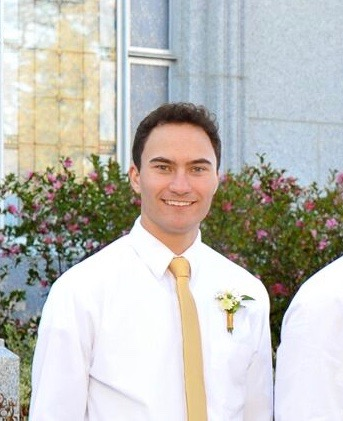
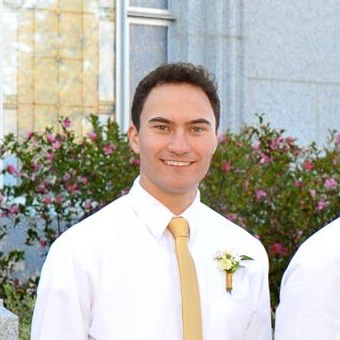
tons of visual updates

diff --git a/subpages/team.html b/subpages/team.html
@@ -1,31 +1,38 @@
 
-<div id="team-content" class='subpage'>    
-  <h1>The Black Dragons</h1>
-  <h2>The Team:</h2>
-  <h3>Joshua Callahan</h3>
-  <a href="../resources/josh.jpg">
-    <img alt="A picture of Josh" src="../resources/josh.jpg" />
-  </a>
-  <p>Computer Science</p>
-  <p>email@address.com</p>
-  <h3>James Collier</h3>
-  <a href="../resources/james.jpg">
-    <img alt="A picture of James" src="../resources/james.jpg" />
-  </a>
-  <p>Computer Science</p>
-  <p>email@address.com</p>
-
-  <h3>Christopher McAfee</h3>
-  <a href="../resources/Astronaut.png">
-    <img alt="A picture of Chris" src="../resources/Astronaut.png" />
-  </a>
-  <p>Computer Science</p>
-  <p>u0289961 at utah.edu</p>
-
-  <h3>Cashe Rumsey</h3>
-  <a href="../resources/Astronaut.png">
-    <img alt="A picture of Cashe" src="../resources/Astronaut.png" />
-  </a>
-  <p>Computer Science</p>
-  <p>email@address.com</p>
+<div id="team-content" class='subpage'>
+  <h1>The Black Dragons:</h1>
+  <div class="members">
+    <div class="member">
+      <h3>Joshua Callahan</h3>
+      <a href="../resources/josh.jpg">
+        <img alt="A picture of Josh" src="../resources/josh.jpg" />
+      </a>
+      <div class="major">Computer Science</div>
+      <div class="email">email@gmail.com</div>
+    </div>
+    <div class="member">
+      <h3>James Collier</h3>
+      <a href="../resources/james.jpg">
+        <img alt="A picture of James" src="../resources/james.jpg" />
+      </a>
+      <div class="major">Computer Science</div>
+      <div class="email">email@gmail.com</div>
+    </div>
+    <div class="member">
+      <h3>Christopher McAfee</h3>
+      <a href="../resources/Astronaut.png">
+        <img alt="A picture of Chris" src="../resources/Astronaut.png" />
+      </a>
+      <div class="major">Computer Science</div>
+      <div class="email">u0289961 at utah.edu</div>
+    </div>
+    <div class="member">
+      <h3>Cashe Rumsey</h3>
+      <a href="../resources/Astronaut.png">
+        <img alt="A picture of Cashe" src="../resources/Astronaut.png" />
+      </a>
+      <div class="major">Computer Science</div>
+      <div class="email">email@gmail.com</div>
+    </div>
+  </div>
 </div>

diff --git a/subpages/overview.html b/subpages/overview.html
@@ -1,6 +1,6 @@
 <div id="overview-content" class='subpage'>
   <h1>Problem Overview</h1>
-<p>Families experience several difficulties associated with shopping for meals, including staying under budget, finding food that accommodates everyone, accounting for dietary restrictions and food aversions, and planning a large enough variety of healthy meals to reduce cravings for less-healthy options. These challenges are complex for a single person, but tracking the preferences and goals of multiple family members can be a major struggle that could contribute to unhealthy diets in some families.</p>
+  <p>Families experience several difficulties associated with shopping for meals, including staying under budget, finding food that accommodates everyone, accounting for dietary restrictions and food aversions, and planning a large enough variety of healthy meals to reduce cravings for less-healthy options. These challenges are complex for a single person, but tracking the preferences and goals of multiple family members can be a major struggle that could contribute to unhealthy diets in some families.</p>
   <h1>Solution Overview</h1>
   <p>We propse the Food Scanner app as a solution to these problems. A family-centric app with multiple facets for tracking food allergies and aversions, setting nutrition goals, finding and saving recipes, and tracking food consumption -- each of these with family overviews and specifics for family members, which can all be used to help meal-decision making in the future.  The core feature of this app is the scanning capability.  The app will allow users to scan nutrition labels in the store to quickly receive feedback about the food, especially information about allergies, goals, and recipe compatibility.  Scanning the receipt is also an option for simpler operation, and for incorporating budget concerns.</p>
 </div>

diff --git a/subpages/design.html b/subpages/design.html
@@ -1,19 +1,9 @@
 <div id="design-content" class='subpage'>
   <h1>Design Process</h1>
   <p>Our design process has progressed well from the initial idea to the design in its current state. Some of this progression can be seen in our testing, analysis, and design documents :</p>
-    <a href="../resources/2dContextualInquiryReview.pdf">
-      <h3>Contextual Inquiry Review</h3>
-    </a>
-    <a href="../resources/2e-Tasks.pdf">
-      <h3>Task Review</h3>
-    </a>
-    <a href="../resources/3dUsabilityTestingReview.pdf">
-      <h3>Usability Testing Review</h3>
-    </a>
-    <a href="../resources/3a-PaperPrototyping.pdf">
-      <h3>Paper Prototyping Review</h3>
-    </a>
-    <a href="../resources/3e-DigitalMockup.pdf">
-      <h3>Digital Mockup</h3>
-    </a>
+  <a class="link" href="../resources/2dContextualInquiryReview.pdf">Contextual Inquiry Review</a>
+  <a class="link" href="../resources/2e-Tasks.pdf">Task Review</a>
+  <a class="link" href="../resources/3dUsabilityTestingReview.pdf">Usability Testing Review</a>
+  <a class="link" href="../resources/3a-PaperPrototyping.pdf">Paper Prototyping Review</a>
+  <a class="link" href="../resources/3e-DigitalMockup.pdf">Digital Mockup</a>
 </div>

diff --git a/subpages/documents.html b/subpages/documents.html
@@ -1,17 +1,13 @@
 <div id="documents-content" class='subpage'>
   <h1>Food Scanner Project Documents</h1>
+  <div class="document-phase">
     <h2>Phase 1: Getting the Right Design</h2>
-    <a href="../resources/Food%20Scanner%20Presentation.pdf">
-      <h3>Phase 1: Presentation</h3>
-    </a>
-    <a href="../resources/2h-FinalReport.pdf">
-        <h3>Phase 1: Final Report</h3>
-    </a>
+    <a class="link" href="../resources/Food%20Scanner%20Presentation.pdf">Phase 1: Presentation</a>
+    <a class="link" href="../resources/2h-FinalReport.pdf">Phase 1: Final Report</a>
+  </div>
+  <div class="document-phase">
     <h2>Phase 2: Getting the Design Right</h2>
-    <a href="../resources/Usability%20Tests%20Presentation.pdf">
-        <h3>Phase 2: Usability Presentation</h3>
-    </a>
-    <a href="../resources/3fFinalReport.pdf">
-        <h3>Phase 2: Final Report</h3>
-    </a>
+    <a class="link" href="../resources/Usability%20Tests%20Presentation.pdf">Phase 2: Usability Presentation</a>
+    <a class="link" href="../resources/3fFinalReport.pdf">Phase 2: Final Report</a>
+  </div>
 </div>

diff --git a/resources/styles.css b/resources/styles.css
@@ -9,7 +9,7 @@
 }
 
 body {
-  font-family: "cal-reg";
+  font-family: Arial, Helvetica, sans-serif;
   padding: 0px;
   margin: 0px;
 }
@@ -51,6 +51,7 @@ nav ul {
 }
 
 nav ul li {
+  font-family: "cal-reg";
   padding-top: 20px;
   padding-bottom: 20px;
   list-style: none;
@@ -79,9 +80,55 @@ footer {
 }
 
 .subpage {
+  margin-top: 40px;
   margin-left: auto;
   margin-right: auto;
   padding-left: 20px;
   padding-right: 20px;
   max-width: 800px;
+}
+
+.subpage h1 {
+  font-weight: 100;
+}
+
+.subpage h2 {
+  font-weight: 100;
+}
+
+img {
+  max-height: 150px;
+}
+
+.members {
+  display: flex;
+}
+
+.member {
+  border: 2px solid #0079ff;
+  border-radius: 6px;
+  padding: 15px;
+  margin: 15px;
+}
+
+.link {
+  text-decoration: none;
+  color: #0079ff;
+  display: block;
+  margin-top: 10px;
+  margin-bottom: 10px;
+}
+
+.document-phase {
+  border: 2px solid #0079ff;
+  border-radius: 6px;
+  padding: 15px;
+  margin: 15px;
+}
+
+[href$=".pdf"]::after{
+  content: url("pdf-icon.jpg");
+  position: relative;
+  top: 6px;
+  left: 10px;
 }

diff --git a/resources/script.js b/resources/script.js
@@ -9,7 +9,6 @@ $(function () {
       contentLoad,
       stickyNavCheck,
       content = jQuery('#content'),
-      footer = jQuery('footer'),
       urlHash = window.location.hash.replace('#', ''),
       animDuration = 150,
       loadPathPrefix = 'subpages/',
@@ -41,12 +40,10 @@ $(function () {
     contentLoad = function (name) {
       jQuery('.active').removeClass('active');
       jQuery('nav ul li#' + name).addClass('active');
-      footer.fadeOut(animDuration);
       content.fadeOut(animDuration, function () {
         content.load('subpages/' + name + '.html', function () {
           window.location.hash = name;
           content.fadeIn(animDuration);
-          footer.fadeIn(animDuration);
         });
       });
     };

diff --git a/index.html b/index.html
@@ -18,6 +18,5 @@
       </ul>
     </nav>
     <div id="content"></div>
-    <footer>Stuff in footer</footer>
   </body>
 </html>
